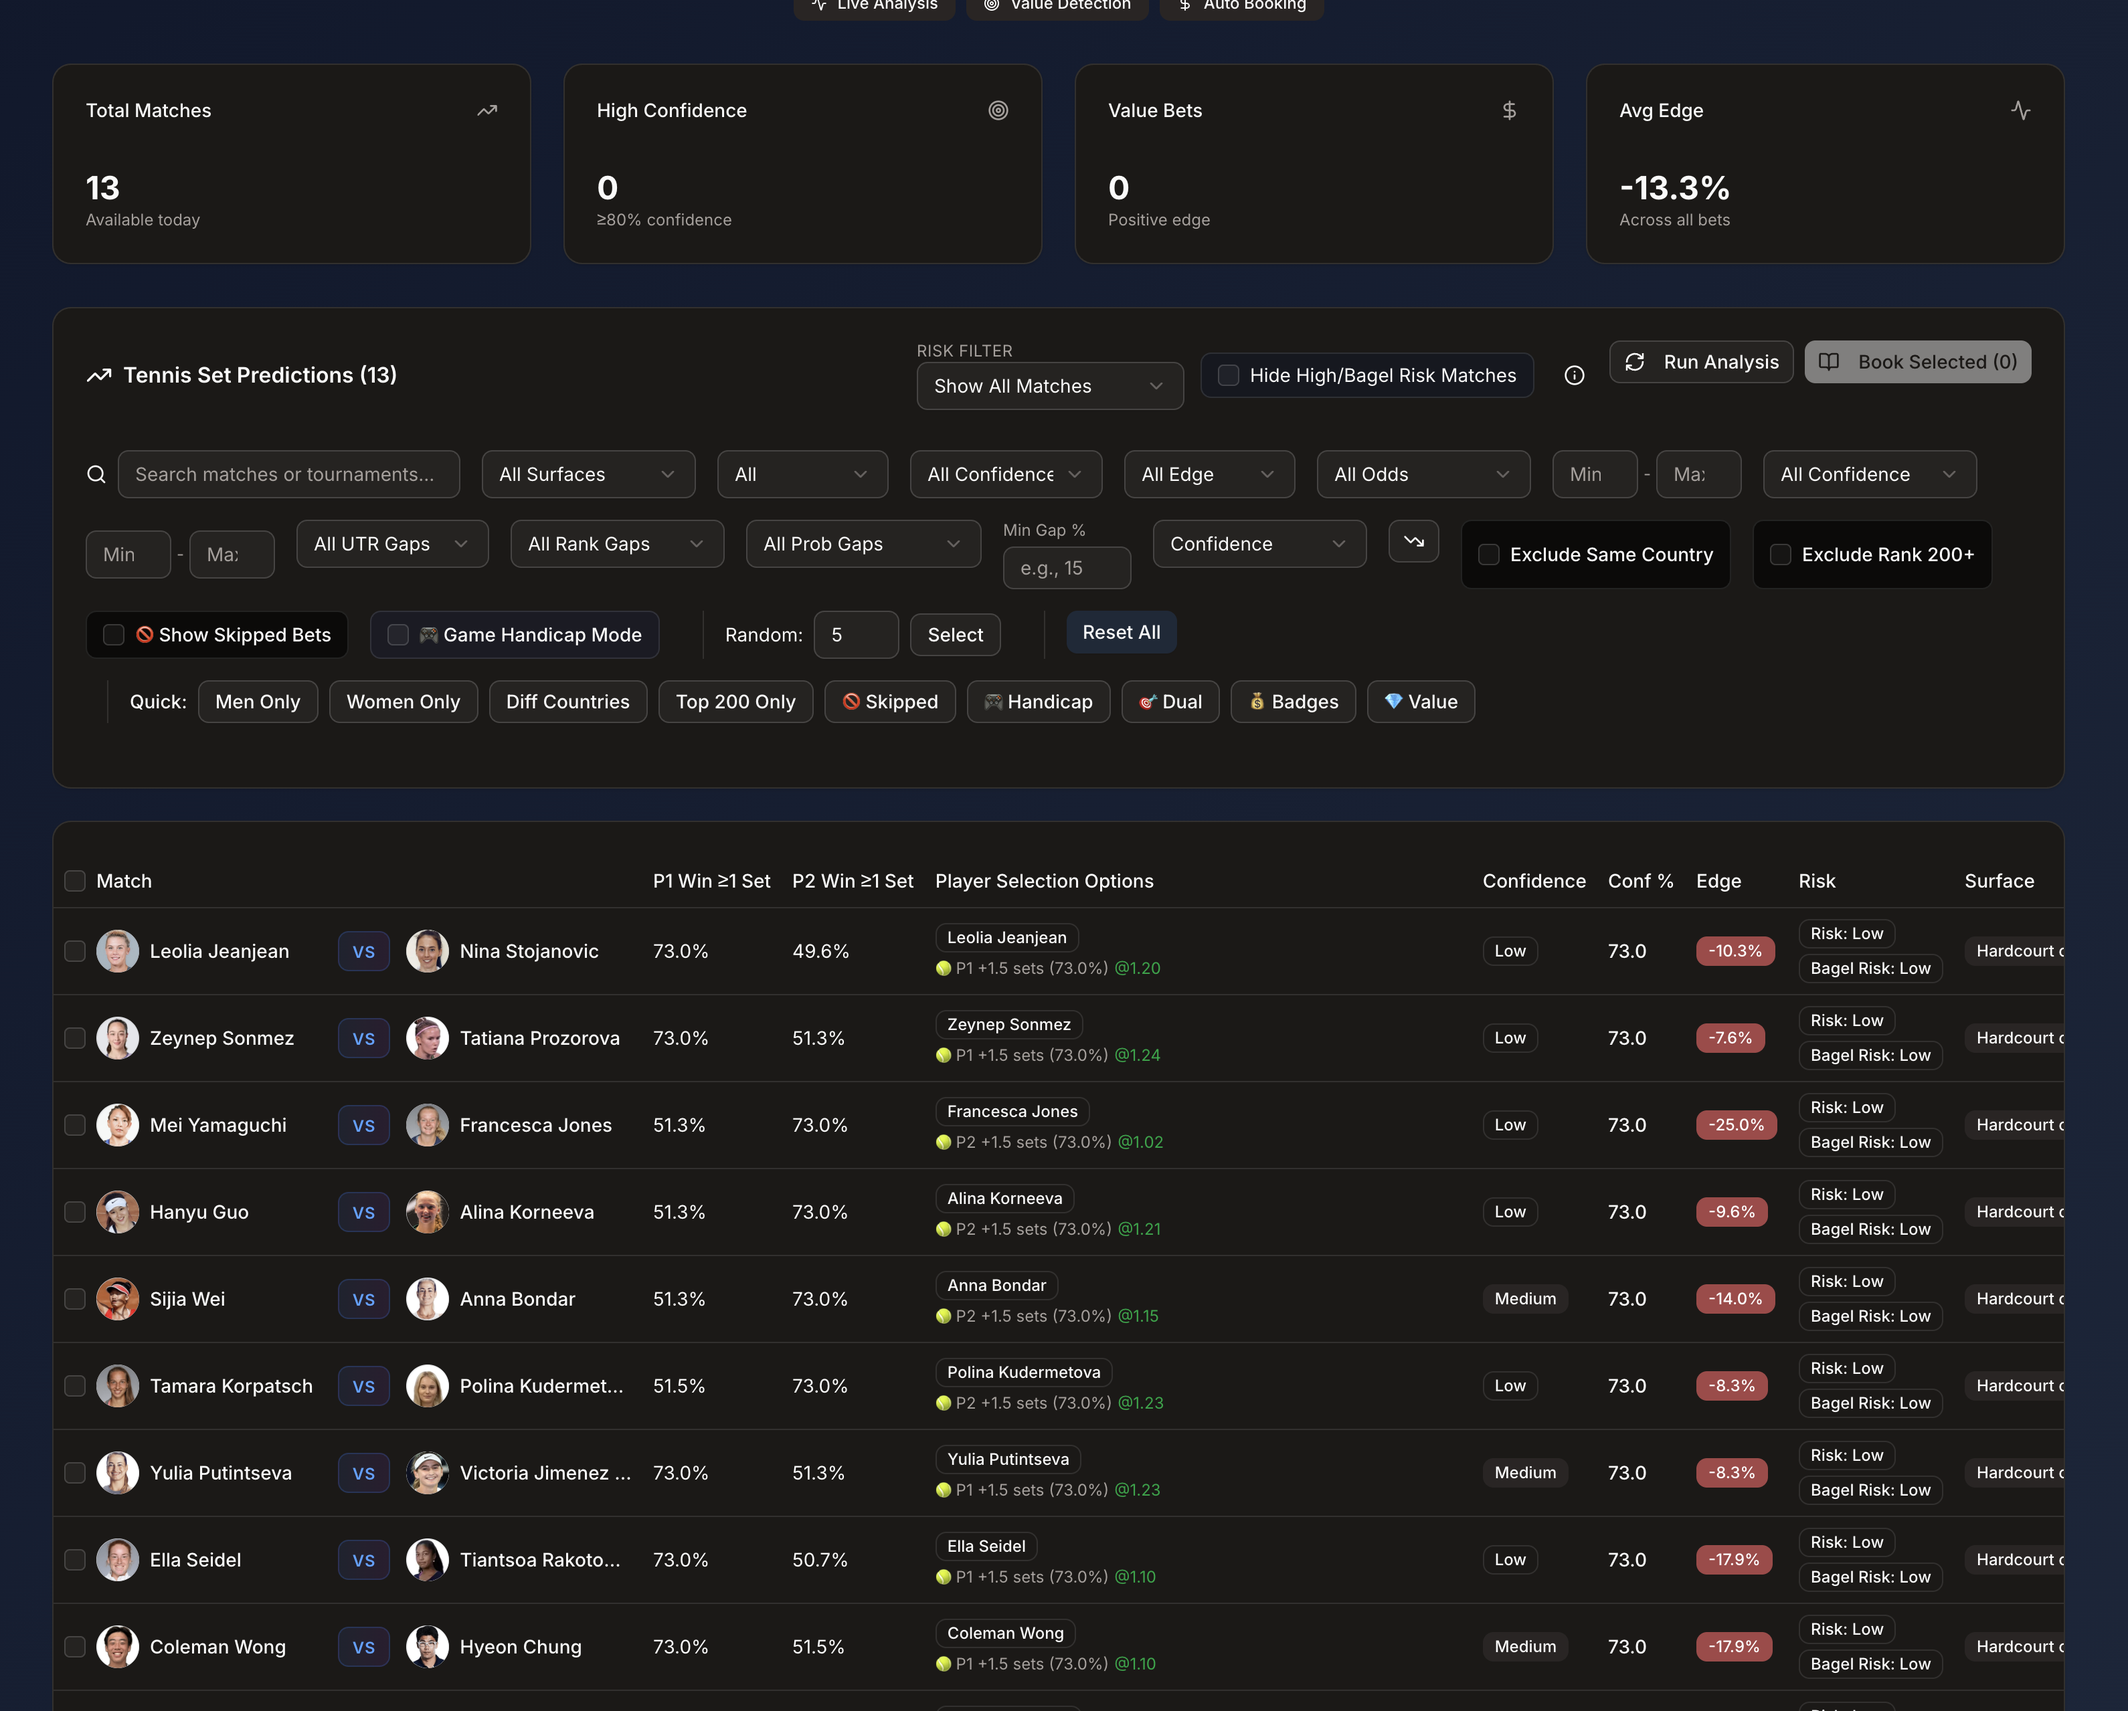
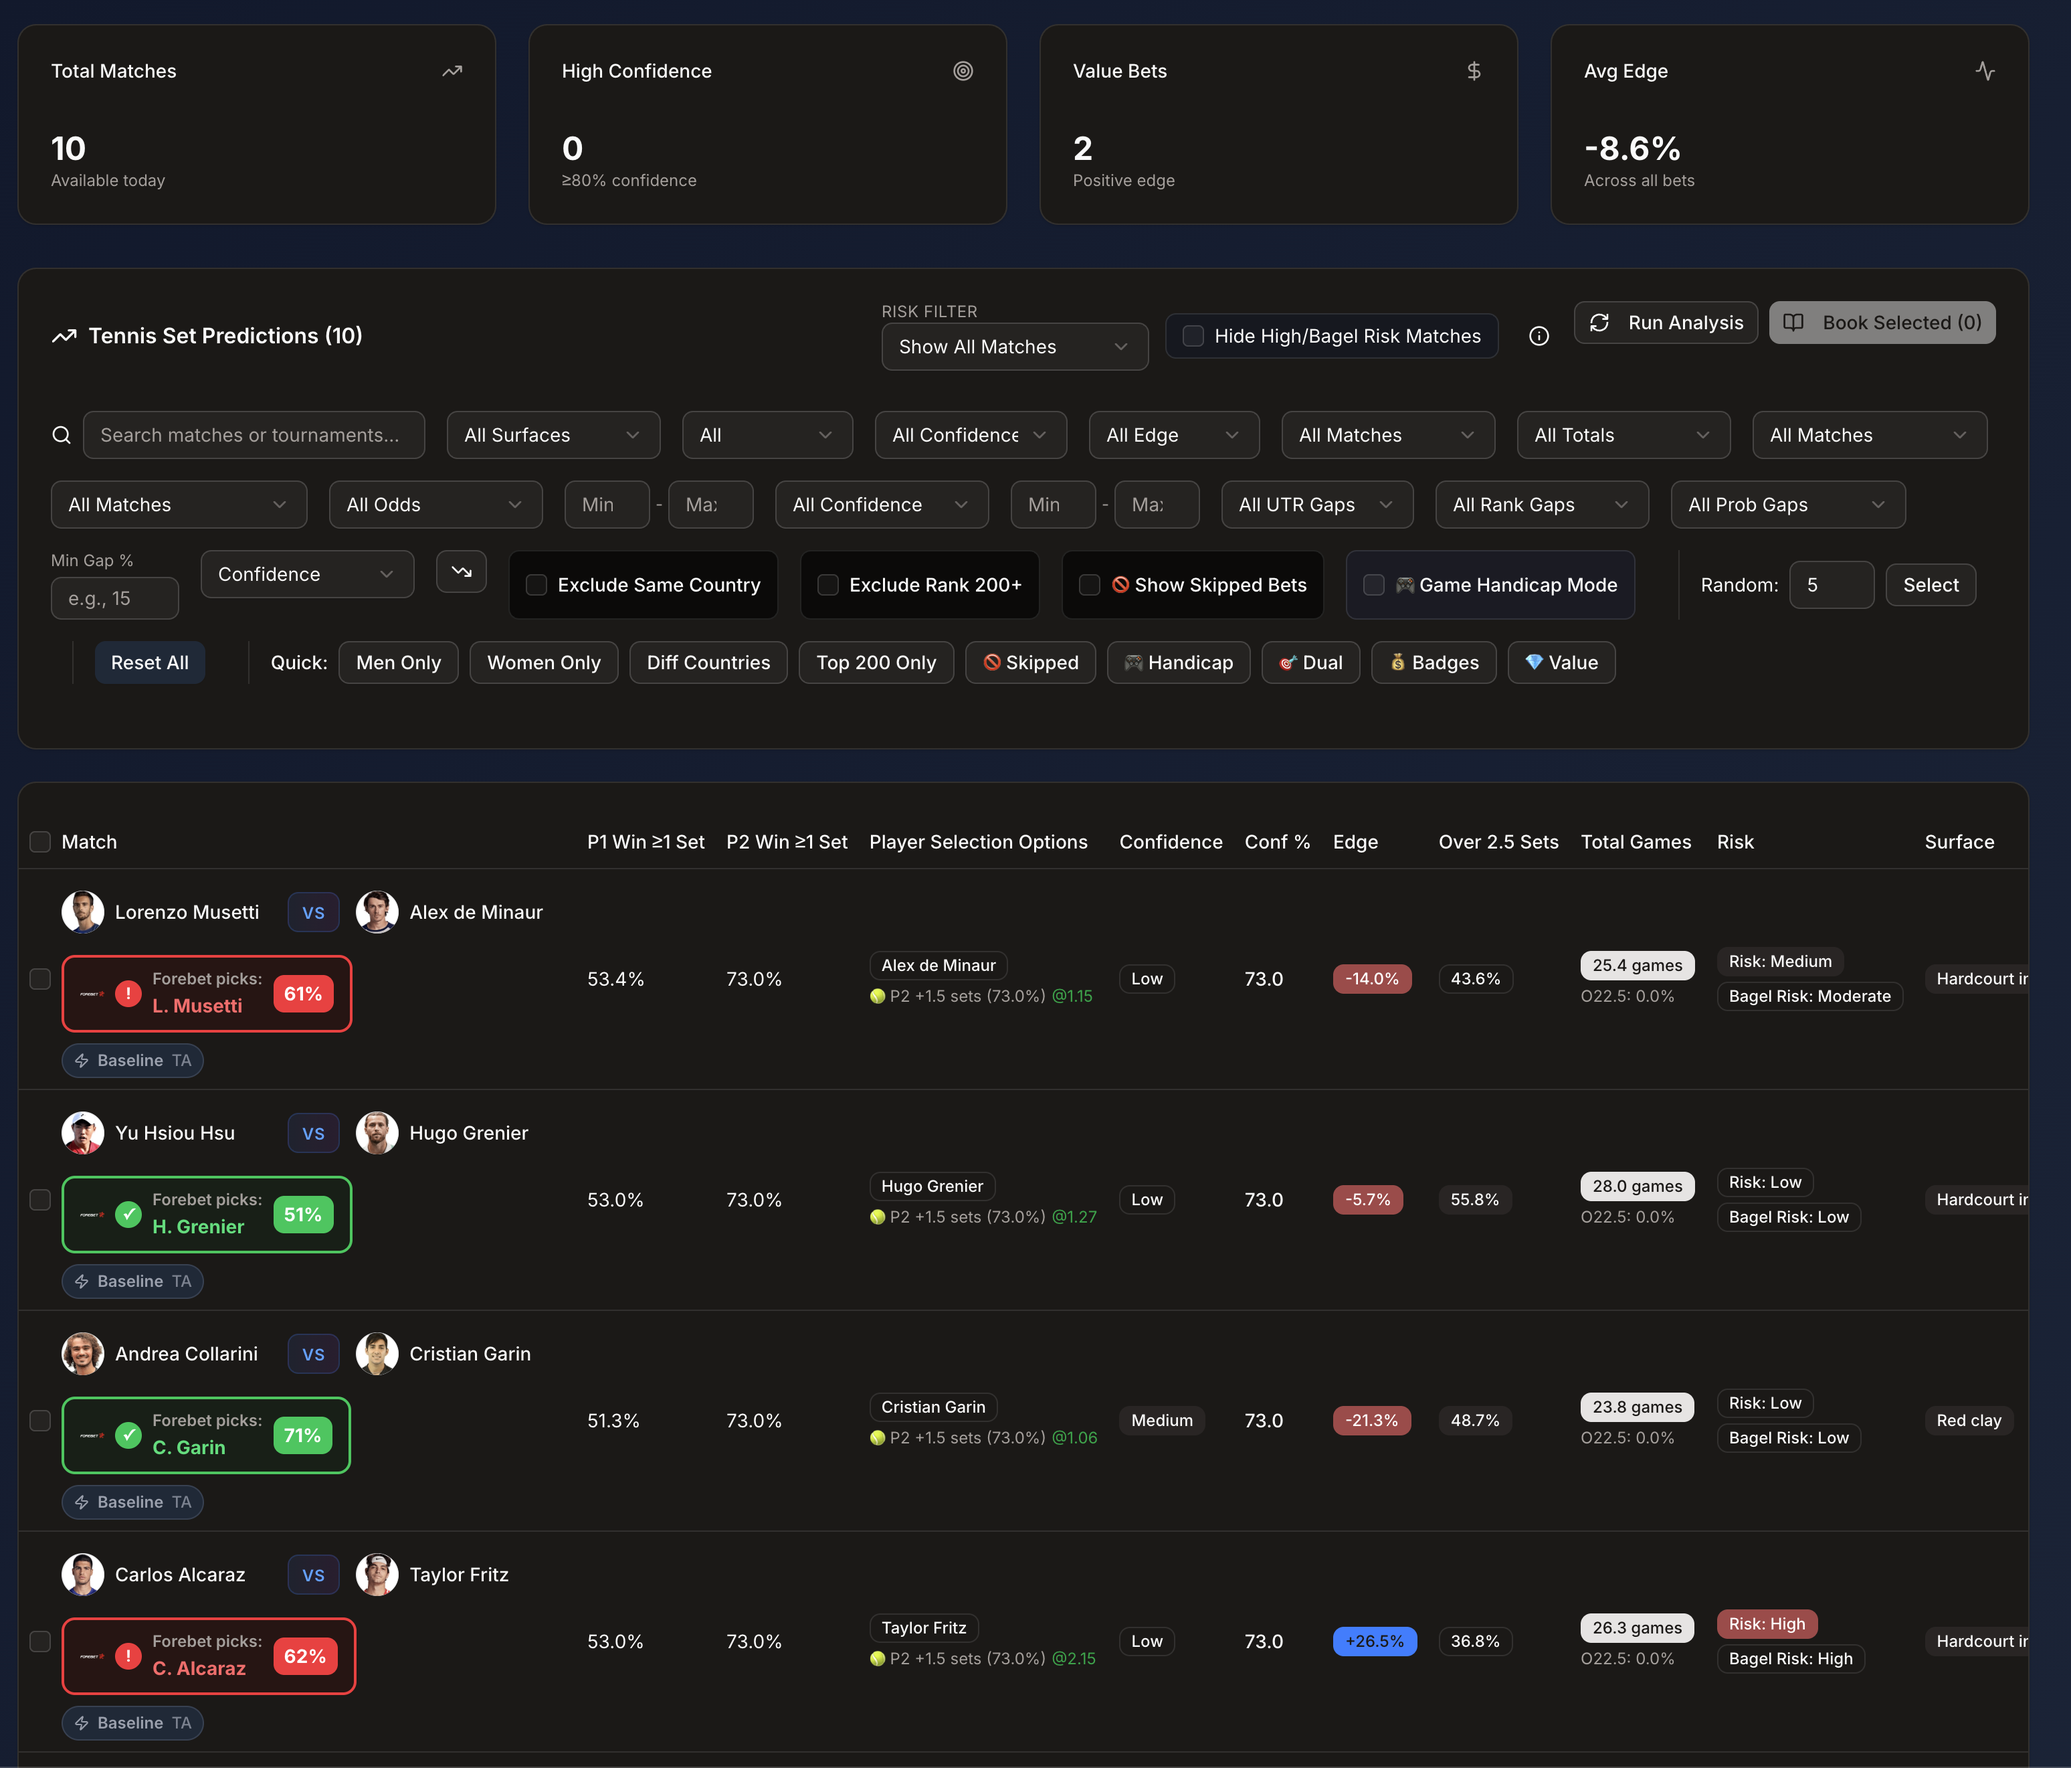
docs: update README with refreshed dashboard screenshot
- Updated prediction-dashboard.png with latest UI
- Shows current matches with Forebet integration, Elo badges, and filters
- Displays confidence levels, edge percentages, and risk indicators
- Removed prediction-dashboard2.png (consolidated to single dashboard image)

diff --git a/README.md b/README.md
@@ -4,7 +4,7 @@
 
 A statistical tennis prediction system specializing in +1.5 set betting markets. Built on advanced statistical analysis, multi-year performance data (2023-2025), universal surface data quality filtering, and comprehensive risk management.
 
-![Tennis Prediction Dashboard](assets/prediction-dashboard2.png)
+![Tennis Prediction Dashboard](assets/prediction-dashboard.png)
 *Interactive prediction dashboard with real-time analysis and filtering*
 
 ---
